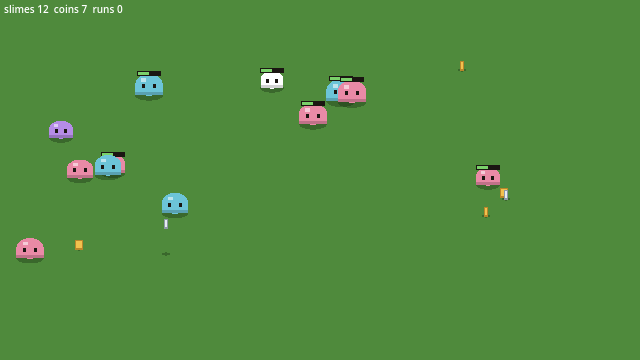
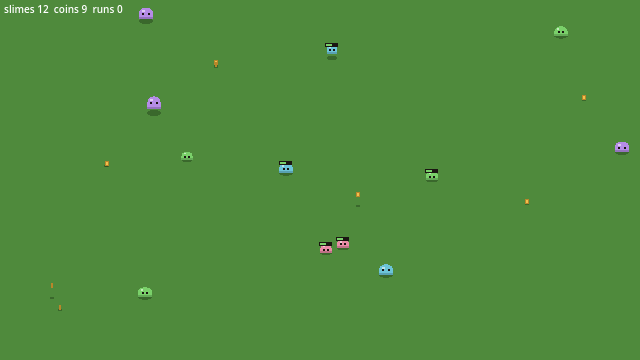
fix: convert spatial values to the 640x360 base resolution
The prototype's pixel values were authored for a ~1280x720 canvas, so
porting them unchanged made slimes and ranges twice as big on screen.
Halve only spatial units (distance, size, radius, speed, gravity,
height, margins, shake, fixed draw pixels); hp, damage, chances, times,
counts and ratios are unchanged. Sprites are drawn at 2x instead of 3x.

- assets/data/slime_field.json, slime.gd, coin.gd: story-001 values
- story-001 AC text and a conversion note; evidence re-captured
- story-002..007: spatial values in ACs and conversion notes
- design/game-brief.md: art direction now 2x sprites

Coin visibility at the smaller size is left to story-003.

Story: production/epics/slime-nodaji/story-001-slime-field.md

diff --git a/production/epics/slime-nodaji/story-002-hero-drop-combat.md b/production/epics/slime-nodaji/story-002-hero-drop-combat.md
@@ -28,12 +28,12 @@
 
 *From `design/game-brief.md` (Core loop, Who it's for), values from the prototype:*
 
-- [ ] 필드를 클릭하면 그 자리에 기사가 높이 420에서 낙하한다 (중력 1100). 낙하 중 그림자는 높이에 따라 작아졌다 커진다.
+- [ ] 필드를 클릭하면 그 자리에 기사가 높이 210에서 낙하한다 (중력 550). 낙하 중 그림자는 높이에 따라 작아졌다 커진다.
 - [ ] 출격 시 기사 `2 + hero 레벨`명이 있고, 클릭마다 1명씩 소모된다. 0명이면 더 떨어뜨릴 수 없다.
-- [ ] 착지 순간 반경 `46 + 7×land 레벨`의 충격이 퍼지고, 바닥에 있는 슬라임에게 `(8 + 10×land 레벨) × 1.07^(판 수/2)` 피해를 준다 (세로 거리는 1.4배 가중).
-- [ ] 착지 연출이 함께 나온다: 화면 흔들림 `3 + 0.5×land 레벨`, 먼지 파티클 12개, 0.35초 링 이펙트, 낮은 톱니파 효과음.
+- [ ] 착지 순간 반경 `23 + 3.5×land 레벨`의 충격이 퍼지고, 바닥에 있는 슬라임에게 `(8 + 10×land 레벨) × 1.07^(판 수/2)` 피해를 준다 (세로 거리는 1.4배 가중).
+- [ ] 착지 연출이 함께 나온다: 화면 흔들림 `1.5 + 0.25×land 레벨`(px), 먼지 파티클 12개, 0.35초 링 이펙트, 낮은 톱니파 효과음.
 - [ ] 마우스를 올리면 착지 범위가 점선 타원으로 미리 보인다.
-- [ ] 기사는 착지 후 가장 가까운 슬라임을 속도 90으로 추적하고, 사거리 `16 + 슬라임 반경`에서 공격한다.
+- [ ] 기사는 착지 후 가장 가까운 슬라임을 속도 45로 추적하고, 사거리 `8 + 슬라임 반경`에서 공격한다.
 - [ ] 공격 쿨다운은 `0.75 / (1 + 0.15×spd 레벨)`초, 피해는 `5 × (1 + 0.25×dmg 레벨) × (0.9~1.1)`이다.
 - [ ] 피격한 슬라임은 0.12초 흰색으로 번쩍이고 피해 숫자가 떠오른다. 체력이 줄면 체력 바가 보인다.
 - [ ] 낙하 중인 영웅은 공격·이동하지 않는다.
@@ -44,7 +44,8 @@
 ## Implementation Notes
 
 - 값의 출처는 프로토타입의 `land`, `update`의 영웅 구간, `pointerdown` 처리다.
-- 픽셀 스프라이트는 8×8 도트를 3배로 키운 형태다 (프로토타입 `SPR.knight`).
+- 픽셀 스프라이트는 8×8 도트를 2배로 키운 형태다 (프로토타입 `SPR.knight`는 3배).
+- **단위 변환 (2026-10-27):** 프로토타입 수치는 약 1280×720 기준 픽셀값이다. 640×360에서는 거리·크기·속도·중력·높이·흔들림 같은 공간 단위 값만 0.5배로 옮겼다. 체력, 피해, 확률, 시간, 개수는 그대로다. 위 수치는 이미 변환된 값이다.
 - 손맛 수치(흔들림, 파티클, 히트 플래시)는 데이터 파일로 빼서 조정하기 쉽게 한다.
 
 ---

diff --git a/production/epics/slime-nodaji/story-007-run-events.md b/production/epics/slime-nodaji/story-007-run-events.md
@@ -29,11 +29,11 @@
 *From `design/game-brief.md` (MVP 7), values from the prototype:*
 
 - [ ] 황금 슬라임: 스폰 시 확률 `0.015 + 0.02×golden 레벨`로 나온다. 체력 `22 × 1.07^판 수`, 처치 시 코인 12개를 풍성하게 떨어뜨린다 (보석 25%, 은 35%, 나머지 구리).
-- [ ] 슬라임 비: 확률 `0.3 × rain 레벨`로 한 판에 한 번, 시각은 6초 이후~종료 6초 전 사이 무작위다. 슬라임 22마리가 높이 200~600에서 떨어지고 '슬라임 비!' 배너가 나온다.
+- [ ] 슬라임 비: 확률 `0.3 × rain 레벨`로 한 판에 한 번, 시각은 6초 이후~종료 6초 전 사이 무작위다. 슬라임 22마리가 높이 100~300에서 떨어지고 '슬라임 비!' 배너가 나온다.
 - [ ] 보물 고블린: `goblin 레벨`이 1 이상일 때 5초~시간의 60% 사이 무작위 시각에 필드 가장자리에서 나온다. 체력 `90 × 1.07^판 수`, 영웅에게서 도망친다.
 - [ ] 고블린은 피격 시 60% 확률로 코인을 떨어뜨리고, 처치 시 코인 25개를 떨어뜨린다. 9초 후에는 화면 밖으로 사라진다.
-- [ ] 대왕 푸딩: `boss 레벨`이 1 이상일 때 한 판의 40% 시점에 높이 500에서 필드 중앙으로 떨어진다. 반경 40, 체력 `420 × 1.07^판 수`이다.
-- [ ] 보스는 착지 시 착지 충격과 화면 흔들림(12)을 내고, 처치 시 코인 45개(풍성 드롭)와 '대왕 푸딩 격파!' 배너를 낸다.
+- [ ] 대왕 푸딩: `boss 레벨`이 1 이상일 때 한 판의 40% 시점에 높이 250에서 필드 중앙으로 떨어진다. 반경 20, 체력 `420 × 1.07^판 수`이다.
+- [ ] 보스는 착지 시 착지 충격과 화면 흔들림(6px)을 내고, 처치 시 코인 45개(풍성 드롭)와 '대왕 푸딩 격파!' 배너를 낸다.
 - [ ] 해당 노드를 사지 않았으면 이벤트는 나오지 않는다.
 - [ ] 이벤트별 배너가 약 1초 동안 크게 나타났다 사라진다.
 
@@ -43,6 +43,7 @@
 
 - 값의 출처는 프로토타입의 `spawnSlime`(종류별 값), `update`의 이벤트 구간, `kill`, `hurt`, 고블린 AI다.
 - 이벤트 시각은 판이 시작될 때 한 번 정한다 (프로토타입 `newRun`).
+- **단위 변환 (2026-10-27):** 낙하 높이(200~600 → 100~300, 500 → 250), 보스 반경(40 → 20), 보스 착지 흔들림(12 → 6px)은 1280×720 기준 프로토타입 값의 0.5배다. 고블린의 도망 속도 등 다른 공간 단위 값도 구현 때 같은 기준(0.5배)으로 옮긴다. 체력·확률·시간·코인 개수는 그대로다.
 - 이벤트 수치도 데이터 파일(`assets/data/run_events.json`)에서 읽는다.
 
 ---

diff --git a/production/epics/slime-nodaji/story-006-archer-berserker-hotbar.md b/production/epics/slime-nodaji/story-006-archer-berserker-hotbar.md
@@ -28,14 +28,14 @@
 
 *From `design/game-brief.md` (Core loop 1, MVP 6), values from the prototype:*
 
-- [ ] 궁수는 `archer 레벨`명이 출격한다. 사거리 170, 이동 속도 70, 쿨다운 `기사 쿨다운 × 1.35`이다.
-- [ ] 궁수는 한 번에 `1 + arrows 레벨`발을 서로 다른 목표에게 쏜다 (목표가 모자라면 같은 목표). 화살 속도 420, 피해 `공격력 × 0.9`이다.
-- [ ] 광전사는 `barb 레벨`명이 출격한다. 사거리 `22 + 슬라임 반경`, 이동 속도 80, 쿨다운 `기사 쿨다운 × 1.25`이다.
-- [ ] 광전사의 공격은 반경 44의 회전 베기이며 범위 안의 모든 바닥 슬라임에게 `공격력 × 1.1` 피해를 준다.
+- [ ] 궁수는 `archer 레벨`명이 출격한다. 사거리 85, 이동 속도 35, 쿨다운 `기사 쿨다운 × 1.35`이다.
+- [ ] 궁수는 한 번에 `1 + arrows 레벨`발을 서로 다른 목표에게 쏜다 (목표가 모자라면 같은 목표). 화살 속도 210, 피해 `공격력 × 0.9`이다.
+- [ ] 광전사는 `barb 레벨`명이 출격한다. 사거리 `11 + 슬라임 반경`, 이동 속도 40, 쿨다운 `기사 쿨다운 × 1.25`이다.
+- [ ] 광전사의 공격은 반경 22의 회전 베기이며 범위 안의 모든 바닥 슬라임에게 `공격력 × 1.1` 피해를 준다.
 - [ ] 핫바는 보유한 영웅 타입만 보여주고, 각 카드에 남은 수와 선택 표시가 있다. 타입을 못 가졌으면 카드가 숨겨진다.
 - [ ] 숫자키 1·2·3과 카드 클릭으로 영웅 타입을 고른다. 남은 수가 0인 타입은 고를 수 없다.
 - [ ] 선택한 타입이 소진되면 남은 수가 있는 다음 타입으로 자동 전환된다.
-- [ ] 세 영웅의 도트 스프라이트(8×8, 3배)와 핫바 카드 아이콘이 표시된다.
+- [ ] 세 영웅의 도트 스프라이트(8×8, 2배)와 핫바 카드 아이콘이 표시된다.
 - [ ] 판이 끝나면 핫바가 비활성화된다.
 
 ---
@@ -44,6 +44,7 @@
 
 - 값의 출처는 프로토타입의 `update`의 영웅 구간, `buildHotbar`, `updateHotbar`, `keydown` 처리, `SPR` 스프라이트다.
 - 기사의 이동·추적 로직은 story 002의 것을 재사용하고, 타입별 차이만 데이터로 둔다.
+- **단위 변환 (2026-10-27):** 사거리·이동 속도·화살 속도·베기 반경은 1280×720 기준 프로토타입 값(170/70/420/22+r/80/44)의 0.5배다. 스프라이트는 3배 대신 2배다. 쿨다운·피해·개수는 그대로다.
 
 ---
 

diff --git a/production/epics/slime-nodaji/story-005-skill-tree-save.md b/production/epics/slime-nodaji/story-005-skill-tree-save.md
@@ -32,7 +32,7 @@
 - [ ] 비용은 `round(base × g^현재 레벨)`이고, 선행 노드 레벨이 1 이상이어야 구매할 수 있다. 최대 레벨이면 MAX로 표시된다.
 - [ ] 골드가 충분하면 구매 시 골드가 차감되고 레벨이 1 오른다. 부족하면 '골드가 N 부족합니다' 메시지가 나온다.
 - [ ] 노드 상태가 구분된다: 구매 가능(금테), MAX, 잠김(흐림). 선행 노드와는 선으로 이어지고, 습득한 선은 색이 바뀐다.
-- [ ] 레벨이 능력치로 반영된다: 기사 `2+hero`, 공격력 `5×(1+0.25×dmg)`, 쿨다운 `0.75/(1+0.15×spd)`, 화살 `1+arrows`, 착지 피해 `8+10×land`, 착지 범위 `46+7×land`, 자석 `34+10×magnet`, 코인 `1+0.3×coin`, 시간 `24+4×time`, 슬라임 수 `12+4×density`, 황금 `0.015+0.02×golden`, 비 `0.3×rain`, 상자 보너스 `0.1×chest`.
+- [ ] 레벨이 능력치로 반영된다: 기사 `2+hero`, 공격력 `5×(1+0.25×dmg)`, 쿨다운 `0.75/(1+0.15×spd)`, 화살 `1+arrows`, 착지 피해 `8+10×land`, 착지 범위 `23+3.5×land`, 자석 `17+5×magnet`, 코인 `1+0.3×coin`, 시간 `24+4×time`, 슬라임 수 `12+4×density`, 황금 `0.015+0.02×golden`, 비 `0.3×rain`, 상자 보너스 `0.1×chest`.
 - [ ] 골드, 판 수, 노드 레벨, 최고 기록이 `user://`에 저장되고 재시작 후 복원된다. 저장 파일이 없거나 깨져 있으면 새 게임으로 시작한다.
 - [ ] 초기화 버튼은 2.5초 안에 두 번 눌러야 동작하고, 첫 번째 누름은 확인 문구만 보여준다.
 - [ ] 트리 화면 하단에 다음 판 요약(시간, 영웅 수, 최고 기록)이 보인다.
@@ -45,6 +45,7 @@
 - 값의 출처는 프로토타입의 `NODES`, `cost`, `unlocked`, `stats`, `renderTree`, 저장 코드(`KEY`)다.
 - 노드 정의는 `assets/data/skill_tree.json`에, 능력치 계산은 별도 클래스에 두어 단위 테스트가 가능하게 한다 (싱글톤 대신 의존성 주입).
 - 저장 형식에는 버전 필드를 둔다.
+- **단위 변환 (2026-10-27):** 착지 범위와 자석 반경은 공간 단위 값이라 1280×720 기준 프로토타입 값의 0.5배다 (`46+7×land` → `23+3.5×land`, `34+10×magnet` → `17+5×magnet`). 피해·시간·배율 등 비공간 값은 그대로다.
 
 ---
 

diff --git a/production/epics/slime-nodaji/story-001-slime-field.md b/production/epics/slime-nodaji/story-001-slime-field.md
@@ -29,8 +29,8 @@
 *From `design/game-brief.md` (Core loop, MVP 2); values from the prototype `slime-nodaji.html`:*
 
 - [ ] 일반 슬라임이 0.3초 간격으로 스폰되어 필드에 최대 `12 + 4×density 레벨`마리까지 유지된다 (기본 12). 출격 시 8마리로 시작한다.
-- [ ] 슬라임은 반경 11~15, 4색(초록·하늘·분홍·보라) 중 무작위이며, 체력은 `10 × 1.07^판 수`이다.
-- [ ] 슬라임은 0.8~2초마다 속도 25~55로 튀며 필드 경계(상단 18px, 하단 `H-70`)에서 반사된다.
+- [ ] 슬라임은 반경 5.5~7.5, 4색(초록·하늘·분홍·보라) 중 무작위이며, 체력은 `10 × 1.07^판 수`이다.
+- [ ] 슬라임은 0.8~2초마다 속도 12.5~27.5로 튀며 필드 경계(상단 9px, 하단 `H-35`)에서 반사된다.
 - [ ] 처치 시 코인 1개를 떨어뜨리고, 40% 확률로 1개 더 떨어뜨린다.
 - [ ] 코인 종류 확률은 구리 85% / 은 13% / 보석 2%이고, 기본 가치는 구리 1·은 4·보석 15이다.
 - [ ] 코인 가치 = 기본 가치 × `1.07^판 수` × `(1 + 0.3×coin 레벨)`.
@@ -44,6 +44,7 @@
 - 값의 출처는 프로토타입의 `spawnSlime`, `kill`, `dropCoins`, `newRun`, `stats`다. 값을 바꾸지 않고 그대로 옮긴다.
 - 판 수 스케일은 매개변수로 받는다 (저장은 story 005).
 - 황금 슬라임·고블린·보스 종류는 story 007에서 추가한다.
+- **단위 변환 (2026-10-27, 완료 후 수정):** 프로토타입 수치는 약 1280×720 기준 픽셀값이라, 640×360에서는 공간 단위 값(거리·크기·반경·속도·중력·높이·여백, 도트로 그린 고정 픽셀 크기)만 0.5배로 옮겼다. 반경 11~15 → 5.5~7.5, 튀는 속도 25~55 → 12.5~27.5, 상단 18 → 9px, 하단 `H-70` → `H-35`, 코인 중력·튀는 속도·여백도 절반이다. 체력·피해·확률·시간·개수·비율은 그대로다. 증거 스크린샷은 변환 후 다시 캡처했다.
 
 ---
 

diff --git a/production/epics/slime-nodaji/story-003-magnet-chest-tiers.md b/production/epics/slime-nodaji/story-003-magnet-chest-tiers.md
@@ -28,7 +28,7 @@
 
 *From `design/game-brief.md` (Core loop 2, Who it's for), values from the prototype:*
 
-- [ ] 커서 반경 `34 + 10×magnet 레벨` 안의 바닥 코인은 상자로 날아간다 (곡선 경로, 약 0.42초). 커서가 필드 밖이면 자석은 꺼진다.
+- [ ] 커서 반경 `17 + 5×magnet 레벨` 안의 바닥 코인은 상자로 날아간다 (곡선 경로, 약 0.42초). 커서가 필드 밖이면 자석은 꺼진다.
 - [ ] 코인이 상자에 도착하면 상자 값에 코인 가치가 더해지고, 상자가 살짝 튀어 오른다. 같은 코인은 한 번만 더해진다.
 - [ ] 상자 등급 임계는 40 / 140 / 400 / 1100에 `1.07^판 수`를 곱한 값이고, 등급은 임계 이상인 가장 높은 단계다 (나무·구리·은·금·수정).
 - [ ] 등급 배율은 `기본 배율 + 0.1×chest 레벨 × 등급 번호`이고, 기본 배율은 1 / 1.25 / 1.5 / 2 / 3이다.
@@ -41,6 +41,7 @@
 ## Implementation Notes
 
 - 값의 출처는 프로토타입의 `TIERS`, `tierOf`, `multOf`, `update`의 코인 구간이다.
+- **단위 변환 (2026-10-27):** 프로토타입의 공간 단위 값은 1280×720 기준이라 640×360에서는 0.5배로 옮겼다 (자석 반경 `34 + 10×레벨` → `17 + 5×레벨`). 등급 임계·배율 같은 비공간 값은 그대로다.
 - 등급 임계와 배율은 외부 데이터 파일(`assets/data/chest_tiers.json`)에서 읽는다.
 - 한 판의 시간 종료 후(개봉 단계)에는 흡수하지 않는다 (story 004).
 - **가시성 (story-001 플레이 후 메모, 2026-10-27):** 640×360에서 바닥 코인이 너무 작아 보인다. 이 스토리에서 코인 크기를 키우거나 반짝임(하이라이트 깜빡임 등)을 더해 잘 보이게 한다. 크기·반짝임 값은 데이터 파일에 둔다. 상세: `production/polish-notes.md`

diff --git a/design/game-brief.md b/design/game-brief.md
@@ -37,6 +37,6 @@
 ---
 **Who it's for / what they feel:** 짧은 판을 반복하며 영웅단을 키우는 증분·방치형 팬. 떨어뜨리고 쓸어 담을 때의 묵직하고 쫀득한 타격감이 최우선 품질 목표.
 
-**Art & audio direction:** 8×8 도트 스프라이트를 3배로 키운 픽셀아트(640×360 정수 배율), 초록 들판과 목재 UI, 8비트 스퀘어/트라이앵글 효과음.
+**Art & audio direction:** 8×8 도트 스프라이트를 2배로 키운 픽셀아트(640×360 정수 배율, 프로토타입의 공간 값은 1280×720 기준이라 0.5배로 옮김), 초록 들판과 목재 UI, 8비트 스퀘어/트라이앵글 효과음.
 
 **Reference game:** When Chests Rain Tons of Loot (LeenGameDev, Steam): 강하→수집→상자 폭발→스킬 트리 루프의 원본. 이 루프 구조만 참고하고, 이름·아트·콘텐츠·수치는 이 프로젝트의 것(슬라임 노다지 프로토타입)을 쓴다. 2순위 참고: Vampire Survivors의 자동 전투와 판 끝 성장.
